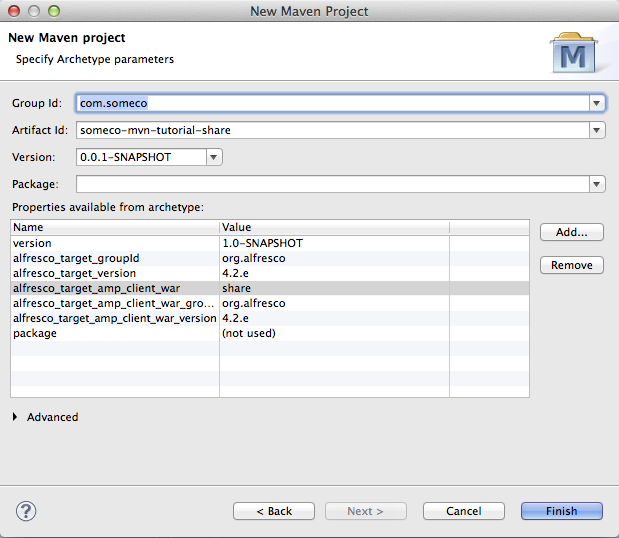
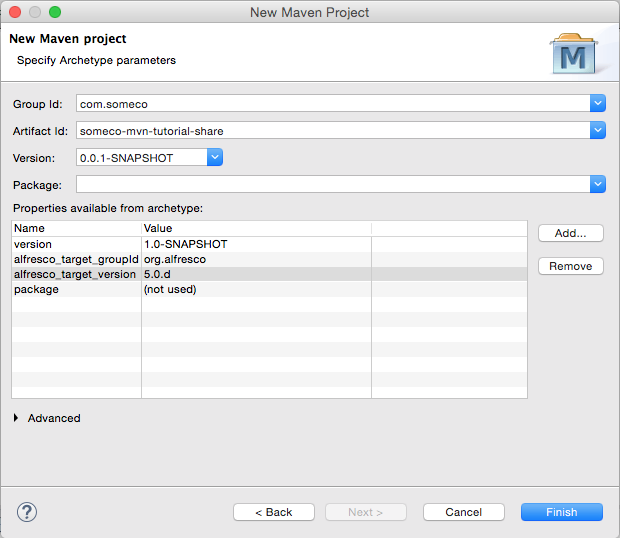
Change maven-sdk tutorial body to be in-sync with the changes made for 2.0 and 5.0.d.

diff --git a/maven-sdk/tutorial/tutorial.html b/maven-sdk/tutorial/tutorial.html
@@ -7,7 +7,7 @@
   <meta http-equiv="Content-Type" content="text/html; charset=utf-8" />
   <meta http-equiv="Content-Style-Type" content="text/css" />
   <meta name="generator" content="pandoc" />
-  <meta name="author" content="Jeff Potts" />
+  <meta name="author" content="Jeff Potts, Metaversant Group" />
   <title>Getting Started with the Alfresco Maven SDK | ECM
 Architect | Alfresco Developer Tutorials</title>
   <style type="text/css">code{white-space: pre;}</style>
@@ -29,7 +29,7 @@ Architect | Alfresco Developer Tutorials</title>
 					<div class="entry-content">
 <div id="header">
 <h1 class="entry-title">Getting Started with the Alfresco Maven SDK</h1>
-<h2 class="author">Jeff Potts</h2>
+<h2 class="author">Jeff Potts, <a href="http://www.metaversant.com">Metaversant Group</a></h2>
 <h3 class="date">January, 2014</h3>
 </div>
 <div id="TOC">
@@ -89,6 +89,7 @@ Architect | Alfresco Developer Tutorials</title>
 <p>Today's developers are used to rails-like frameworks where you have an empty directory one moment and a fully instantiated, ready-to-run project the next. Why should Alfresco developers settle for anything less?</p>
 <p>With the Alfresco Maven SDK you don't have to. The goal of the Maven-based SDK is to make it extremely easy for you to get started with Alfresco development. It consists of a project template (an &quot;archetype&quot; in Maven parlance) and some built-in smarts that make Maven understand how to create AMPs and deploy them to Alfresco.</p>
 <p>If you are writing your own custom application that is separate from the Alfresco and Share WARs you don't need the Alfresco Maven SDK. But if you intend to write code that runs within either of those web applications, the Alfresco Maven SDK is where you need to start.</p>
+<p>A quick word about versions. This tutorial assumes you are using Alfresco Maven SDK 2.0. It requires Alfresco 5.0. If you are using Alfresco 4.x you must use an older version of this tutorial which covers Alfresco Maven SDK 1.0. If you are using a version older than 4.x you should upgrade already! (But seriously, you'll have to use the old Ant-based SDK for versions older than 4.x).</p>
 <h3 id="what-about-the-old-ant-based-sdk">What About the Old Ant-based SDK?</h3>
 <p>Alfresco has provided a downloadable SDK since the early-days. The SDK consisted of a ZIP that contained compile-time dependencies, source code, JavaDocs, and sample Eclipse projects. The sample projects used Ant-based builds.</p>
 <p>There was nothing wrong with this approach, but as the platform evolved, the Ant-based SDK failed to evolve with it. Today, it contains examples for parts of the product that have fallen out-of-favor (the native Web Services API, for example, or the Alfresco Explorer user interface) and lacks examples for hugely important pieces of the product such as CMIS, Web Scripts, and advanced workflows using Activiti.</p>
@@ -97,13 +98,17 @@ Architect | Alfresco Developer Tutorials</title>
 <h1 id="your-first-project">Your First Project</h1>
 <p>Let me show you how easy it can be to get started with Alfresco development using the Alfresco Maven SDK. Before I start I'm going to assume you have JDK 1.7 installed as well as Apache Maven 3. You don't need to download anything else. Seriously. Not even Alfresco.</p>
 <ol style="list-style-type: decimal">
-<li><p>Create an empty directory. We're going to be creating some additional directories in here shortly.</p></li>
-<li><p>Now let's create a new project. For now, let's assume you want to create something that you will deploy to the Alfresco repository tier such as a custom content model, some custom rule actions, a new set of web scripts, or some Activiti business processes. It doesn't really matter. To create the new project, run this command:</p>
-<pre><code>mvn archetype:generate \
--DarchetypeCatalog=https://artifacts.alfresco.com/nexus/content/groups/public/archetype-catalog.xml \
--Dfilter=org.alfresco.maven.archetype:</code></pre></li>
-<li><p>Maven will do some work and eventually ask you to choose an &quot;archetype&quot;. You're basically selecting from a library of template projects. There are two available. One is called &quot;alfresco-amp-archetype&quot; and the other is called &quot;alfresco-allinone-archetype&quot;. Our goal is to create an AMP that can be deployed to Alfresco so the first one is the one we want. Type 1 and hit enter.</p></li>
-<li><p>Now Maven is asking you to specify the version of the archetype you want to base your project on. Currently, the latest version is 1.1.1 which is the 5th option in the list, so type 5 and hit enter.</p></li>
+<li><p>Create an empty directory. It doesn't matter where it is or what you call it. I'll refer to it as $TUTORIAL_HOME. We're going to be creating some additional directories in here shortly.</p></li>
+<li><p>Now let's create a new project. For now, let's assume you want to create something that you will deploy to the Alfresco repository tier such as a custom content model, some custom rule actions, a new set of web scripts, or some Activiti business processes. It doesn't really matter. To create the new project, change directories to $TUTORIAL_HOME, then run this command:</p>
+<pre><code>mvn archetype:generate -Dfilter=org.alfresco:</code></pre></li>
+<li>Maven will do some work and eventually ask you to choose an &quot;archetype&quot;. You're basically selecting from a library of template projects. There are three available:
+<ol style="list-style-type: decimal">
+<li>alfresco-allinone-archetype</li>
+<li>alfresco-amp-archetype</li>
+<li>share-amp-archetype</li>
+</ol>
+<p>Our goal is to create an AMP that can be deployed to Alfresco so the second one is the one we want. Type 2 and hit enter.</p></li>
+<li><p>Now Maven is asking you to specify the version of the archetype you want to base your project on. Currently, the latest version is 2.0.0 which is the 5th option in the list, so type 5 and hit enter.</p></li>
 <li><p>Maven now asks for a groupId. You should be thinking &quot;Java package&quot;. My examples always assume I am working at a fictitious company called SomeCo, so I will specify &quot;com.someco&quot; here. Specify what makes sense in your case and hit enter.</p></li>
 <li><p>Next is the artifactId. You can think of this as what you want your project to be called. It will also be the ID of your AMP so make it something unique. You should also append the string &quot;-repo&quot; to your artifactId because this module is intended to be deployed to the repository tier. I'm going to specify &quot;someco-mvn-tutorial-repo&quot; for mine followed by enter.</p></li>
 <li><p>At this point Maven will show you the values you entered plus some others that were defaulted and ask you to confirm your choices. If you want to change something you can specify &quot;N&quot; and then make changes or you can enter &quot;Y&quot; to continue. I can always change these values later if needed, so I'm going to specify &quot;Y&quot; followed by enter.</p></li>
@@ -116,6 +121,7 @@ Architect | Alfresco Developer Tutorials</title>
 <li>Configuration required to run a local instance of Alfresco suitable for testing</li>
 <li>A default POM (Project Object Model) XML file that tells Maven what your project depends on</li>
 </ul>
+<p>The SDK defaults to &quot;5.0.c&quot; as the Alfresco version. You might want to edit someco-mvn-tutorial-repo/pom.xml and change that to &quot;5.0.d&quot; before you proceed.</p>
 <h2 id="lets-run-it">Let's Run It</h2>
 <p>You haven't downloaded anything. You haven't edited anything. All you've done is tell Maven to create a project based on a template. But the cool thing is this: Your project is runnable right now.</p>
 <p>Try this:</p>
@@ -129,7 +135,8 @@ mvn integration-test -Pamp-to-war</code></pre>
 <pre><code>Jan 16, 2014 8:38:20 AM org.apache.coyote.AbstractProtocol start INFO: Starting ProtocolHandler [&quot;http-bio-8080&quot;]</code></pre>
 <p>You should be able to go to:</p>
 <pre><code>http://localhost:8080/alfresco</code></pre>
-<p>And log in using &quot;admin&quot; and &quot;admin&quot;.</p>
+<p>And you will see the &quot;Welcome to Alfresco' page. In versions prior to 5.0.d this would be the Alfresco Explorer login page.log in using &quot;admin&quot; and &quot;admin&quot;. If you want to verify that you can log in, go to the Alfresco web script console, which is:</p>
+<pre><code>http://localhost:8080/alfresco/s/index</code></pre>
 <p>When you are done poking around, go back to the window where you ran your Maven command and type ctrl-c to shutdown the server.</p>
 <p>If you get an out-of-memory error when you run the integration test, you may need to pass some JVM memory parameters to Maven. One way to do that is by setting the MAVEN_OPTS environment variable. For example, I have mine set to:</p>
 <pre><code>-Xmx1024M -XX:MaxPermSize=512m</code></pre>
@@ -165,7 +172,7 @@ Running org.alfresco.demoamp.test.DemoComponentTest</code></pre>
 <p>If you change the pom.xml, then the AMP that gets produced will include that setting, and subsequently, the WAR the AMP gets deployed to will write log statements accordingly. This may or may not be what you want. If you aren't sure, it's probably best to set it using the command-line so it doesn't accidentally get set in your AMP.</p>
 <h2 id="working-with-your-project-in-an-ide">Working With Your Project in an IDE</h2>
 <p>Althought it isn't required, most people prefer to work in an IDE when developing Alfresco customizations. Any IDE will do, but the most popular one is Eclipse so let's see how that works.</p>
-<p>I'll be using the Kepler version of Eclipse Java EE IDE for Web Developers. It comes with built-in Maven support.</p>
+<p>I'll be using the Luna version of Eclipse Java EE IDE for Web Developers. It comes with built-in Maven support.</p>
 <p>To open the project we created earlier in Eclipse, do this:</p>
 <ol style="list-style-type: decimal">
 <li><p>Select File, Import, Maven, Existing Maven Projects. Click Next.</p>
@@ -176,28 +183,8 @@ Running org.alfresco.demoamp.test.DemoComponentTest</code></pre>
 <div class="figure">
 <img src="./images/select-maven-project.png" />
 </div></li>
-<li><p>Eclipse will show the Setup Maven plugin connectors panel. You may see the &quot;set-version&quot; plugin complaining. That is safe to ignore for now. Click Finish.</p>
-<div class="figure">
-<img src="./images/setup-plugin-connectors.png" />
-</div></li>
 </ol>
-<p>Now the project is imported into your Eclipse workspace.</p>
-<p>In the Markers panel you may see a Maven Problem listed that says, &quot;Plugin execution not covered by lifecycle configuration&quot;.</p>
-<div class="figure">
-<img src="./images/plugin-execution-problem.png" alt="Maven has a problem with the set-version plugin" /><p class="caption">Maven has a problem with the set-version plugin</p>
-</div>
-<p>To fix this:</p>
-<ol style="list-style-type: decimal">
-<li>Right-click on the error and select &quot;Quick Fix&quot;.</li>
-<li>Select &quot;Permanently mark goal set-version in pom.xml as ignored in Eclipse build&quot; then click Finish.</li>
-<li>Select your POM location (mine is com.someco : someco-mvn-tutorial-repo : 1.0-SNAPSHOT) and click OK.</li>
-</ol>
-<p>After the project rebuilds you may see one last problem listed, which is &quot;Project configuration is not up-to-date with pom.xml&quot;. To fix this:</p>
-<ol style="list-style-type: decimal">
-<li>Right-click on the project and select Maven, Update Project.</li>
-<li>Make sure the project is selected, then click OK.</li>
-</ol>
-<p>Now Eclipse should be happy and the only errors left should be some Java warnings related to unused imports.</p>
+<p>After clicking Finish, the project is imported into your Eclipse workspace.</p>
 <h2 id="understanding-the-project-structure">Understanding the Project Structure</h2>
 <p>The folder structure of your project is a bit more pleasant to explore in your IDE. Let's see what we've got.</p>
 <ul>
@@ -221,7 +208,7 @@ Running org.alfresco.demoamp.test.DemoComponentTest</code></pre>
 <h2 id="target-war">Target WAR</h2>
 <p>The other thing that is different about a Share project is the WAR the AMP will be deployed to. Instead of the alfresco WAR it needs to be deployed to the share WAR. This is configured in the alfresco.client.war property in pom.xml. By default it is set to &quot;alfresco&quot;. For Share projects it should be set to &quot;share&quot;.</p>
 <h3 id="try-it-create-a-share-project-using-the-archetype">Try It: Create a Share Project Using the Archetype</h3>
-<p>Let's create a new project for Share customizations. You could go into the command line and run the exact same archetype command you ran earlier, specifying a new artifactId, and then changing the alfresco.client.war property to &quot;share&quot;. If you are not using Eclipse, go ahead and do that now, then skip the next section.</p>
+<p>Let's create a new project for Share customizations. You could go into the command line and run the exact same archetype command you ran earlier, selecting the &quot;share-amp-archetype&quot; and specifying a new artifactId. If you are not using Eclipse, go ahead and do that now, then skip the next section.</p>
 <p>Another option is to configure Eclipse so you can create new Alfresco projects using the Alfresco Maven SDK without leaving the IDE. Let's do that.</p>
 <ol style="list-style-type: decimal">
 <li>File, New Maven Project.</li>
@@ -234,17 +221,17 @@ Running org.alfresco.demoamp.test.DemoComponentTest</code></pre>
 <img src="./images/select-an-archetype.png" />
 </div></li>
 <li>Click Add Remote Catalog</li>
-<li><p>Specify &quot;https://artifacts.alfresco.com/nexus/content/groups/public/archetype-catalog.xml&quot; as the Catalog File. Specify &quot;Alfresco Archetypes&quot; as the description. Then, click OK and OK again to close the Preferences panel.</p>
+<li><p>Specify &quot;http://repo.maven.apache.org/maven2/archetype-catalog.xml&quot; as the Catalog File. Specify &quot;Alfresco Archetypes&quot; as the description. Then, click OK and OK again to close the Preferences panel.</p>
 <div class="figure">
 <img src="./images/add-archetype-catalog.png" />
 </div></li>
 <li>Now select &quot;Alfresco Archetypes&quot; in the catalog and you'll see a bunch of archetypes show up in the list.</li>
-<li>Specify &quot;org.alfresco.maven.archetype&quot; in the filter and you'll see the same two archetypes that were presented to you as options on the command line at the start of the tutorial.</li>
-<li><p>Select the alfresco-amp-archetype and click Next.</p>
+<li>Specify &quot;org.alfresco.maven.archetype&quot; in the filter and you'll see the same three archetypes that were presented to you as options on the command line at the start of the tutorial.</li>
+<li><p>Select the share-amp-archetype and click Next.</p>
 <div class="figure">
 <img src="./images/select-amp-archetype.png" />
 </div></li>
-<li><p>Specify &quot;com.someco&quot; for the groupId, &quot;someco-mvn-tutorial-share&quot; as the artifactId, and change alfresco_target_amp_client_war to &quot;share&quot;. Then click Finish.</p>
+<li><p>Specify &quot;com.someco&quot; for the groupId and &quot;someco-mvn-tutorial-share&quot; as the artifactId. Similar to the command line step, I changed my alfresco_target_version from &quot;5.0.c&quot; to &quot;5.0.d&quot;. Then click Finish.</p>
 <div class="figure">
 <img src="./images/specify-archetype-params.png" />
 </div></li>
@@ -261,8 +248,8 @@ mvn integration-test -Pamp-to-war</code></pre>
 mvn integration-test -Pamp-to-war -Dmaven.tomcat.port=8081</code></pre>
 <p>Once both servers come up, you can go to http://localhost:8081/share and log in to test your module.</p>
 <h1 id="dependency-management">Dependency Management</h1>
-<p>The cool thing about Apache Maven is that it manages your projects dependencies for you. All you need to do is tell Maven about them by configuring your pom.xml. By default, the Alfresco Maven SDK will create two dependencies for your project: alfresco-repository and junit.</p>
-<p>As I mentioned earlier, Alfresco Share projects don't depend on the Alfresco repository so for the someco-mvn-tutorial-share project, that dependency can be removed. But what if I wanted to put some Alfresco Java in my Share project, like maybe a Java-based web script? In that case, we'll need to adjust the dependencies.</p>
+<p>The cool thing about Apache Maven is that it manages your projects dependencies for you. All you need to do is tell Maven about them by configuring your pom.xml. By default, the Alfresco Maven SDK will create the base dependencies for your project. Your repo-tier project depends on alfresco-repository, for example.</p>
+<p>As I mentioned earlier, Alfresco Share projects don't depend on the Alfresco repository. They depend on share and spring-surf-api, typically, so the SDK sets those dependencies up for you. But what if I wanted to put some Alfresco Java in my Share project, like maybe a Java-based web script? In that case, we'll need to adjust the dependencies.</p>
 <p>Web scripts can run in either the repository tier or the share tier. If you write a Java-based web script in your repository project the class will compile because that project depends on the alfresco-repository artifact which in turn depends on the spring-webscripts artifact. You can see this if you go to the Dependency Hierarchy tab in Eclipse in your pom.xml file:</p>
 <div class="figure">
 <img src="./images/dependency-hierarchy.png" alt="Depency hierarchy shown in Eclipse" /><p class="caption">Depency hierarchy shown in Eclipse</p>
@@ -271,10 +258,10 @@ mvn integration-test -Pamp-to-war -Dmaven.tomcat.port=8081</code></pre>
 <pre><code>mvn dependency:list</code></pre>
 <p>So, to add a Java-based web script to our share tier project, we'd need to add spring-webscripts as a dependency. You can do this by editing the pom.xml, like this:</p>
 <pre><code>&lt;dependency&gt;
-    &lt;groupId&gt;org.springframework.extensions.surf&lt;/groupId&gt;
-    &lt;artifactId&gt;spring-webscripts&lt;/artifactId&gt;
-    &lt;version&gt;1.2.0-M14&lt;/version&gt;
-    &lt;scope&gt;provided&lt;/scope&gt;
+  &lt;groupId&gt;org.springframework.extensions.surf&lt;/groupId&gt;
+  &lt;artifactId&gt;spring-webscripts&lt;/artifactId&gt;
+  &lt;version&gt;5.0.d&lt;/version&gt;
+  &lt;scope&gt;provided&lt;/scope&gt;
 &lt;/dependency&gt;</code></pre>
 <p>Now a Java-based web script will be able to find its parent class, DeclarativeWebScript.</p>
 <p>You might be wondering how you were supposed to know that the DeclarativeWebScript class was included in the spring-webscripts artifact. One way to find out is to go to <a href="http://artifacts.alfresco.com">http://artifacts.alfresco.com</a>. You can do a search for a class and it will show you all of the artifacts that contain it.</p>
@@ -288,8 +275,7 @@ mvn integration-test -Pamp-to-war -Dmaven.tomcat.port=8081</code></pre>
 </ul>
 <h1 id="where-to-find-more-information">Where to Find More Information</h1>
 <ul>
-<li>The <a href="http://docs.alfresco.com/community/topic/com.alfresco.community.doc/concepts/dev-extensions-maven-sdk.html">official documentation</a> on the Alfresco Maven SDK is on <a href="http://docs.alfresco.com">http://docs.alfresco.com</a>.</li>
-<li>More detailed documentation on the Alfresco Maven SDK can be found at <a href="https://artifacts.alfresco.com/nexus/content/groups/public/alfresco-lifecycle-aggregator/latest/archetypes/alfresco-amp-archetype/index.html">artifacts.alfresco.com</a>.</li>
+<li>The <a href="http://docs.alfresco.com/community/concepts/alfresco-sdk-intro.html">official documentation</a> on the Alfresco Maven SDK is on <a href="http://docs.alfresco.com">http://docs.alfresco.com</a>.</li>
 <li>Gab's Alfresco Summit presentation on <a href="http://summit.alfresco.com/boston/sessions/enabling-test-driven-rapid-dev-continuous-delivery-alfresco-apps">Test-Driven, Rapid Development, and Continuous Delivery of Alfresco Solutions</a></li>
 <li>The <a href="http://www.amazon.com/Instant-Apache-Starter-Maurizio-Turatti/dp/1782167609">Instant Apache Maven Starter</a> book by Maurizio Turatti and Maurizio Pillitu might be a good resource if you are interested in learning more about Apache Maven.</li>
 <li>Gethin James' <a href="http://summit.alfresco.com/barcelona/sessions/getting-started-alfresco-development">Getting Started with Alfresco Development</a> presentation from Alfresco Summit</li>

diff --git a/maven-sdk/tutorial/tutorial.md b/maven-sdk/tutorial/tutorial.md
@@ -1,5 +1,5 @@
 % Getting Started with the Alfresco Maven SDK
-% Jeff Potts
+% Jeff Potts, [Metaversant Group](http://www.metaversant.com)
 % January, 2014
 
 License
@@ -45,6 +45,8 @@ With the Alfresco Maven SDK you don't have to. The goal of the Maven-based SDK i
 
 If you are writing your own custom application that is separate from the Alfresco and Share WARs you don't need the Alfresco Maven SDK. But if you intend to write code that runs within either of those web applications, the Alfresco Maven SDK is where you need to start.
 
+A quick word about versions. This tutorial assumes you are using Alfresco Maven SDK 2.0. It requires Alfresco 5.0. If you are using Alfresco 4.x you must use an older version of this tutorial which covers Alfresco Maven SDK 1.0. If you are using a version older than 4.x you should upgrade already! (But seriously, you'll have to use the old Ant-based SDK for versions older than 4.x).
+
 ### What About the Old Ant-based SDK?
 
 Alfresco has provided a downloadable SDK since the early-days. The SDK consisted of a ZIP that contained compile-time dependencies, source code, JavaDocs, and sample Eclipse projects. The sample projects used Ant-based builds.
@@ -59,19 +61,22 @@ Your First Project
 ==================
 Let me show you how easy it can be to get started with Alfresco development using the Alfresco Maven SDK. Before I start I'm going to assume you have JDK 1.7 installed as well as Apache Maven 3. You don't need to download anything else. Seriously. Not even Alfresco.
 
-1. Create an empty directory. We're going to be creating some additional directories in here shortly.
+ 1. Create an empty directory. It doesn't matter where it is or what you call it. I'll refer to it as $TUTORIAL_HOME. We're going to be creating some additional directories in here shortly.
 
-2. Now let's create a new project. For now, let's assume you want to create something that you will deploy to the Alfresco repository tier such as a custom content model, some custom rule actions, a new set of web scripts, or some Activiti business processes. It doesn't really matter. To create the new project, run this command:
+ 2. Now let's create a new project. For now, let's assume you want to create something that you will deploy to the Alfresco repository tier such as a custom content model, some custom rule actions, a new set of web scripts, or some Activiti business processes. It doesn't really matter. To create the new project, change directories to $TUTORIAL_HOME, then run this command:
     
-    ```    
-    mvn archetype:generate \
-    -DarchetypeCatalog=https://artifacts.alfresco.com/nexus/content/groups/public/archetype-catalog.xml \
-    -Dfilter=org.alfresco.maven.archetype:
+    ```   
+    mvn archetype:generate -Dfilter=org.alfresco:
     ```
     
-3. Maven will do some work and eventually ask you to choose an "archetype". You're basically selecting from a library of template projects. There are two available. One is called "alfresco-amp-archetype" and the other is called "alfresco-allinone-archetype". Our goal is to create an AMP that can be deployed to Alfresco so the first one is the one we want. Type 1 and hit enter.
+ 3. Maven will do some work and eventually ask you to choose an "archetype". You're basically selecting from a library of template projects. There are three available:
+    1. alfresco-allinone-archetype
+    2. alfresco-amp-archetype
+    3. share-amp-archetype
 
-4. Now Maven is asking you to specify the version of the archetype you want to base your project on. Currently, the latest version is 1.1.1 which is the 5th option in the list, so type 5 and hit enter.
+    Our goal is to create an AMP that can be deployed to Alfresco so the second one is the one we want. Type 2 and hit enter.
+
+4. Now Maven is asking you to specify the version of the archetype you want to base your project on. Currently, the latest version is 2.0.0 which is the 5th option in the list, so type 5 and hit enter.
 
 5. Maven now asks for a groupId. You should be thinking "Java package". My examples always assume I am working at a fictitious company called SomeCo, so I will specify "com.someco" here. Specify what makes sense in your case and hit enter.
 
@@ -86,6 +91,8 @@ Now Maven is going to do some work. When it is done you will have:
 * Minimal Java code and an accompanying unit test just to verify that everything works
 * Configuration required to run a local instance of Alfresco suitable for testing
 * A default POM (Project Object Model) XML file that tells Maven what your project depends on
+
+The SDK defaults to "5.0.c" as the Alfresco version. You might want to edit someco-mvn-tutorial-repo/pom.xml and change that to "5.0.d" before you proceed.
 
 Let's Run It
 ------------
@@ -112,7 +119,9 @@ You should be able to go to:
 
     http://localhost:8080/alfresco
 
-And log in using "admin" and "admin".
+And you will see the "Welcome to Alfresco' page. In versions prior to 5.0.d this would be the Alfresco Explorer login page.log in using "admin" and "admin". If you want to verify that you can log in, go to the Alfresco web script console, which is:
+
+    http://localhost:8080/alfresco/s/index
 
 When you are done poking around, go back to the window where you ran your Maven command and type ctrl-c to shutdown the server.
 
@@ -181,7 +190,7 @@ Working With Your Project in an IDE
 -----------------------------------
 Althought it isn't required, most people prefer to work in an IDE when developing Alfresco customizations. Any IDE will do, but the most popular one is Eclipse so let's see how that works.
 
-I'll be using the Kepler version of Eclipse Java EE IDE for Web Developers. It comes with built-in Maven support.
+I'll be using the Luna version of Eclipse Java EE IDE for Web Developers. It comes with built-in Maven support.
 
 To open the project we created earlier in Eclipse, do this:
 
@@ -193,28 +202,7 @@ To open the project we created earlier in Eclipse, do this:
 
     ![](./images/select-maven-project.png)
 
-3. Eclipse will show the Setup Maven plugin connectors panel. You may see the "set-version" plugin complaining. That is safe to ignore for now. Click Finish.
-
-    ![](./images/setup-plugin-connectors.png)
-
-Now the project is imported into your Eclipse workspace.
-
-In the Markers panel you may see a Maven Problem listed that says, "Plugin execution not covered by lifecycle configuration".
-
-![Maven has a problem with the set-version plugin](./images/plugin-execution-problem.png)
-
-To fix this:
-
-1. Right-click on the error and select "Quick Fix".
-2. Select "Permanently mark goal set-version in pom.xml as ignored in Eclipse build" then click Finish.
-3. Select your POM location (mine is com.someco : someco-mvn-tutorial-repo : 1.0-SNAPSHOT) and click OK.
-
-After the project rebuilds you may see one last problem listed, which is "Project configuration is not up-to-date with pom.xml". To fix this:
-
-1. Right-click on the project and select Maven, Update Project.
-2. Make sure the project is selected, then click OK.
-
-Now Eclipse should be happy and the only errors left should be some Java warnings related to unused imports.
+After clicking Finish, the project is imported into your Eclipse workspace.
 
 Understanding the Project Structure
 -----------------------------------
@@ -251,7 +239,7 @@ The other thing that is different about a Share project is the WAR the AMP will 
 
 ### Try It: Create a Share Project Using the Archetype
 
-Let's create a new project for Share customizations. You could go into the command line and run the exact same archetype command you ran earlier, specifying a new artifactId, and then changing the alfresco.client.war property to "share". If you are not using Eclipse, go ahead and do that now, then skip the next section.
+Let's create a new project for Share customizations. You could go into the command line and run the exact same archetype command you ran earlier, selecting the "share-amp-archetype" and specifying a new artifactId. If you are not using Eclipse, go ahead and do that now, then skip the next section.
 
 Another option is to configure Eclipse so you can create new Alfresco projects using the Alfresco Maven SDK without leaving the IDE. Let's do that.
 
@@ -265,17 +253,17 @@ Another option is to configure Eclipse so you can create new Alfresco projects u
     ![](./images/select-an-archetype.png)
 
 4. Click Add Remote Catalog
-5. Specify "https://artifacts.alfresco.com/nexus/content/groups/public/archetype-catalog.xml" as the Catalog File. Specify "Alfresco Archetypes" as the description. Then, click OK and OK again to close the Preferences panel.
+5. Specify "http://repo.maven.apache.org/maven2/archetype-catalog.xml" as the Catalog File. Specify "Alfresco Archetypes" as the description. Then, click OK and OK again to close the Preferences panel.
 
     ![](./images/add-archetype-catalog.png)
 
 6. Now select "Alfresco Archetypes" in the catalog and you'll see a bunch of archetypes show up in the list.
-7. Specify "org.alfresco.maven.archetype" in the filter and you'll see the same two archetypes that were presented to you as options on the command line at the start of the tutorial.
-8. Select the alfresco-amp-archetype and click Next.
+7. Specify "org.alfresco.maven.archetype" in the filter and you'll see the same three archetypes that were presented to you as options on the command line at the start of the tutorial.
+8. Select the share-amp-archetype and click Next.
 
     ![](./images/select-amp-archetype.png)
 
-9. Specify "com.someco" for the groupId, "someco-mvn-tutorial-share" as the artifactId, and change alfresco_target_amp_client_war to "share". Then click Finish.
+9. Specify "com.someco" for the groupId and "someco-mvn-tutorial-share" as the artifactId. Similar to the command line step, I changed my alfresco_target_version from "5.0.c" to "5.0.d". Then click Finish.
 
     ![](./images/specify-archetype-params.png)
 
@@ -301,9 +289,9 @@ Once both servers come up, you can go to http://localhost:8081/share and log in 
 
 Dependency Management
 =====================
-The cool thing about Apache Maven is that it manages your projects dependencies for you. All you need to do is tell Maven about them by configuring your pom.xml. By default, the Alfresco Maven SDK will create two dependencies for your project: alfresco-repository and junit.
+The cool thing about Apache Maven is that it manages your projects dependencies for you. All you need to do is tell Maven about them by configuring your pom.xml. By default, the Alfresco Maven SDK will create the base dependencies for your project. Your repo-tier project depends on alfresco-repository, for example.
 
-As I mentioned earlier, Alfresco Share projects don't depend on the Alfresco repository so for the someco-mvn-tutorial-share project, that dependency can be removed. But what if I wanted to put some Alfresco Java in my Share project, like maybe a Java-based web script? In that case, we'll need to adjust the dependencies.
+As I mentioned earlier, Alfresco Share projects don't depend on the Alfresco repository. They depend on share and spring-surf-api, typically, so the SDK sets those dependencies up for you. But what if I wanted to put some Alfresco Java in my Share project, like maybe a Java-based web script? In that case, we'll need to adjust the dependencies.
 
 Web scripts can run in either the repository tier or the share tier. If you write a Java-based web script in your repository project the class will compile because that project depends on the alfresco-repository artifact which in turn depends on the spring-webscripts artifact. You can see this if you go to the Dependency Hierarchy tab in Eclipse in your pom.xml file:
 
@@ -316,10 +304,10 @@ Alternatively, you can see the hierarchy by running:
 So, to add a Java-based web script to our share tier project, we'd need to add spring-webscripts as a dependency. You can do this by editing the pom.xml, like this:
 
     <dependency>
-        <groupId>org.springframework.extensions.surf</groupId>
-        <artifactId>spring-webscripts</artifactId>
-        <version>1.2.0-M14</version>
-        <scope>provided</scope>
+      <groupId>org.springframework.extensions.surf</groupId>
+      <artifactId>spring-webscripts</artifactId>
+      <version>5.0.d</version>
+      <scope>provided</scope>
     </dependency>
 
 Now a Java-based web script will be able to find its parent class, DeclarativeWebScript.
@@ -338,8 +326,7 @@ There are many topics that weren't covered in this tutorial. I'll leave you to e
 
 Where to Find More Information
 ==============================
- - The [official documentation](http://docs.alfresco.com/community/topic/com.alfresco.community.doc/concepts/dev-extensions-maven-sdk.html) on the Alfresco Maven SDK is on <http://docs.alfresco.com>.
- - More detailed documentation on the Alfresco Maven SDK can be found at [artifacts.alfresco.com](https://artifacts.alfresco.com/nexus/content/groups/public/alfresco-lifecycle-aggregator/latest/archetypes/alfresco-amp-archetype/index.html).
+ - The [official documentation](http://docs.alfresco.com/community/concepts/alfresco-sdk-intro.html) on the Alfresco Maven SDK is on <http://docs.alfresco.com>.
  - Gab's Alfresco Summit presentation on [Test-Driven, Rapid Development, and Continuous Delivery of Alfresco Solutions](http://summit.alfresco.com/boston/sessions/enabling-test-driven-rapid-dev-continuous-delivery-alfresco-apps)
  - The [Instant Apache Maven Starter](http://www.amazon.com/Instant-Apache-Starter-Maurizio-Turatti/dp/1782167609) book by Maurizio Turatti and Maurizio Pillitu might be a good resource if you are interested in learning more about Apache Maven.
  - Gethin James' [Getting Started with Alfresco Development](http://summit.alfresco.com/barcelona/sessions/getting-started-alfresco-development) presentation from Alfresco Summit
